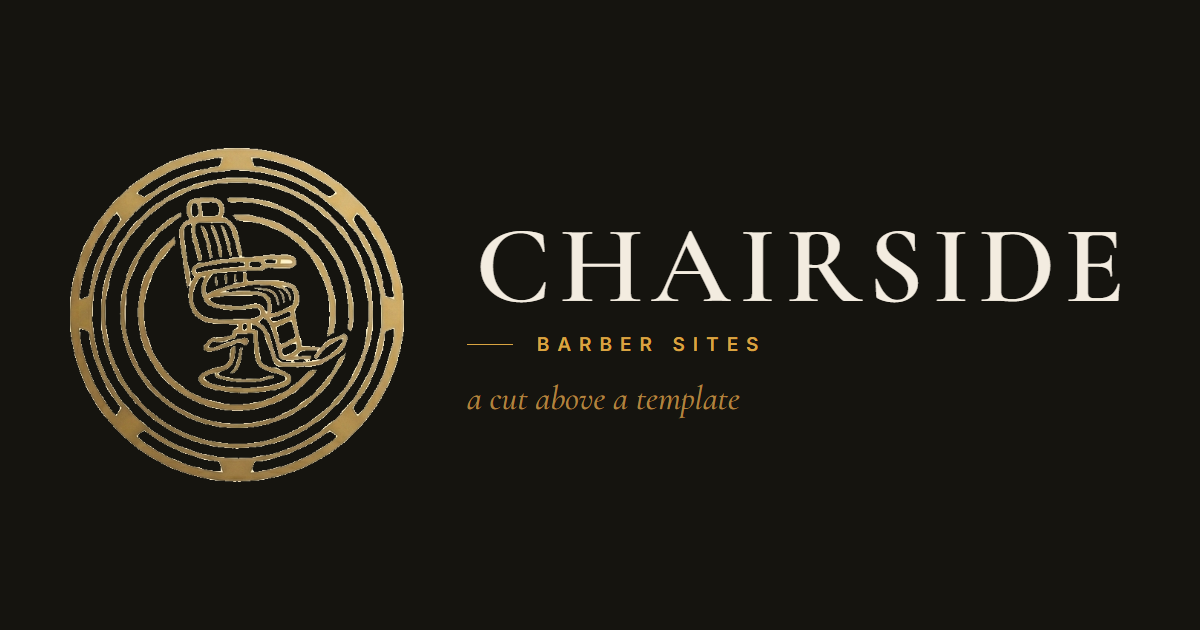
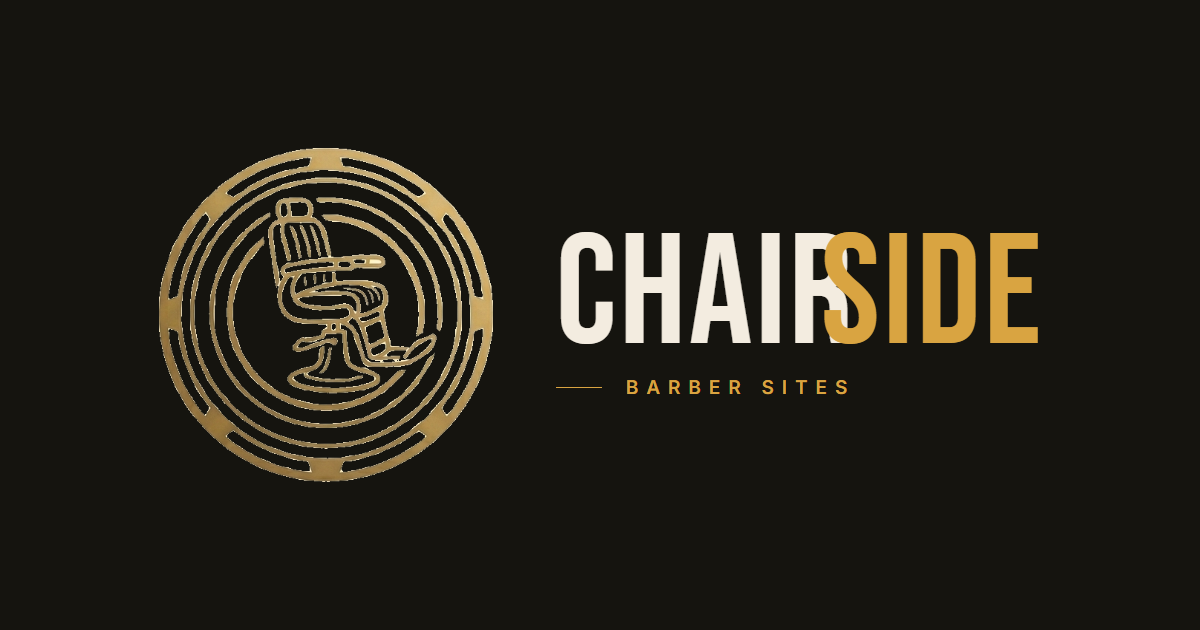
Revert wordmark to Bebas CHAIR/SIDE (keep emblem), match site style
Per Ashley: keep the monoline emblem but flip the wordmark font back to the
condensed Bebas treatment (CHAIR cream + SIDE amber) so it matches the rest of
the site. Regenerated og.png to match.

Changed region(s): [[0.0308, 0.2111, 0.9558, 0.7841]]

diff --git a/index.html b/index.html
@@ -50,8 +50,9 @@
 
   header{position:sticky;top:0;z-index:50;background:rgba(21,20,15,0.9);backdrop-filter:blur(10px);border-bottom:1px solid var(--rule)}
   .bar{display:flex;align-items:center;justify-content:space-between;height:66px}
-  .logo{display:flex;align-items:center;gap:11px;font-family:'Cormorant Garamond',Georgia,serif;font-weight:600;font-size:1.65rem;letter-spacing:0.13em;text-transform:uppercase;color:var(--paper);text-decoration:none}
-  .logo-mark{height:2.05em;width:auto;display:block}
+  .logo{display:flex;align-items:center;gap:9px;font-family:'Bebas Neue',Impact,sans-serif;font-size:1.75rem;letter-spacing:0.015em;color:var(--paper);text-decoration:none}
+  .logo b{color:var(--amber);font-weight:400;margin-left:-0.22em}
+  .logo-mark{height:1.7em;width:auto;display:block}
   .nav-cta{font-family:'Oswald',sans-serif;font-size:0.8rem;font-weight:600;letter-spacing:0.16em;text-transform:uppercase;color:var(--bg);background:var(--amber);text-decoration:none;padding:10px 18px;border-radius:2px;transition:.2s}
   .nav-cta:hover{background:var(--amber-bright)}
 
@@ -136,7 +137,7 @@
 
 <header>
   <div class="wrap bar">
-    <a class="logo" href="/" aria-label="Chairside — Barber Sites"><img class="logo-mark" src="/assets/emblem-mark.png" alt="">CHAIRSIDE</a>
+    <a class="logo" href="/" aria-label="Chairside — Barber Sites"><img class="logo-mark" src="/assets/emblem-mark.png" alt="">CHAIR<b>SIDE</b></a>
     <a class="nav-cta" href="mailto:[email redacted]?subject=Website%20for%20my%20barbershop">Get in touch</a>
   </div>
 </header>
@@ -260,7 +261,7 @@
 
 <footer>
   <div class="wrap foot">
-    <div class="logo"><img class="logo-mark" src="/assets/emblem-mark.png" alt="">CHAIRSIDE</div>
+    <div class="logo"><img class="logo-mark" src="/assets/emblem-mark.png" alt="">CHAIR<b>SIDE</b></div>
     <div>Websites for barbers &middot; <a href="mailto:[email redacted]">[email redacted]</a> &middot; <a href="https://instagram.com/chairsidebarbersites" target="_blank" rel="noopener">@chairsidebarbersites</a></div>
   </div>
 </footer>